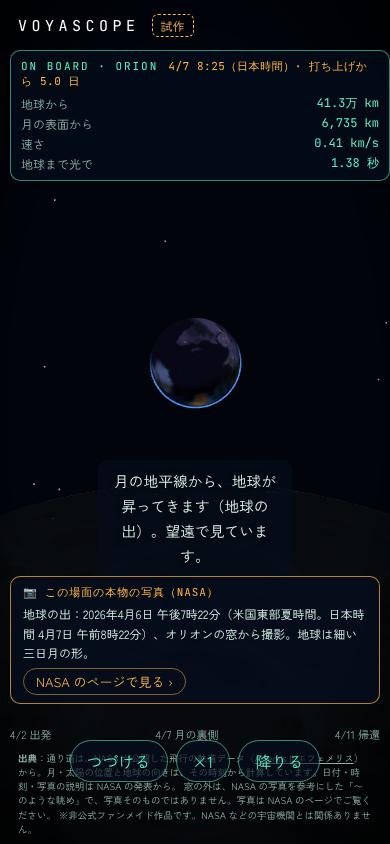
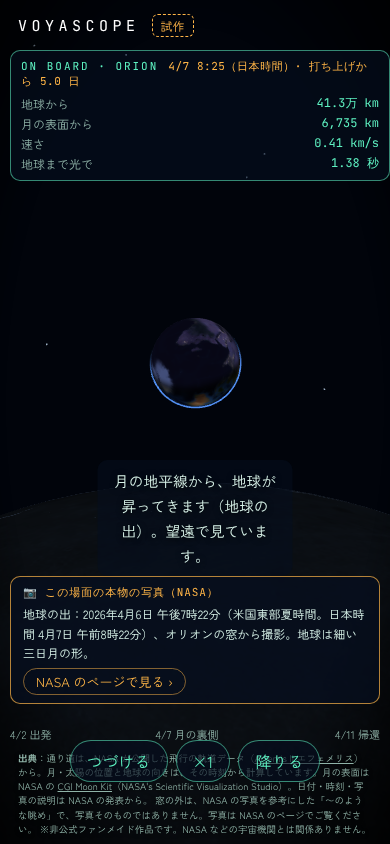
アルテミス2号ツアーの月を、NASA の CGI Moon Kit（本物の月の地図）にする
- 2026-10-09 オーナー「CGI Moon kit を使おう。本物を」
- 元：NASA SVS「CGI Moon Kit」https://svs.gsfc.nasa.gov/4720 （クレジット：NASA's Scientific Visualization Studio）
  - 色 lroc_color_2k.jpg → web/assets/moon/lroc-color-2048.webp（約265KB）
  - 標高 ldem_3_8bit.jpg → web/assets/moon/ldem-1024.webp（約66KB。でこぼこに使う）
  - WebP にしただけで、大きさ・色は変えていない
- コードで描いていた作りものの月は消した。ページの下にクレジットとリンク
- 読み込み量の上限：ツアーの組を 600KB → 950KB に上げた（いま 879KB）。理由：本物の月の画像（約331KB）と軌道データ。three.js と地球の画像は本体と共通でキャッシュが効く

Claude-Session: https://claude.ai/code/session_01PSGDyXvgTX9QfsVBqZKy2A

Changed region(s): [[0.0308, 0.8934, 0.9538, 1.0]]

diff --git a/web/tour/artemis2/tour.js b/web/tour/artemis2/tour.js
@@ -226,41 +226,11 @@ const atmo = new THREE.Mesh(
 );
 scene.add(atmo);
 
-// 月：表側に海（暗いところ）、裏側はクレーターの多い明るい高地（月の裏側に海が少ないのは本当の特徴）
-const moonTex = canvasTex(1024, 512, (g, w, h) => {
-  g.fillStyle = "#9a9790";
-  g.fillRect(0, 0, w, h);
-  const rnd = (a, b) => a + Math.random() * (b - a);
-  for (let i = 0; i < 9000; i++) {
-    g.fillStyle = Math.random() < 0.5 ? "rgba(255,255,255,0.05)" : "rgba(0,0,0,0.06)";
-    g.fillRect(rnd(0, w), rnd(0, h), rnd(1, 6), rnd(1, 6));
-  }
-  // 海（表側：経度の真ん中＝ u 0.5 のまわり）
-  if ("filter" in g) g.filter = "blur(10px)";
-  for (let i = 0; i < 26; i++) {
-    g.fillStyle = `rgba(52,52,56,${rnd(0.25, 0.45)})`;
-    g.beginPath();
-    g.ellipse(w * rnd(0.36, 0.64), h * rnd(0.28, 0.66), rnd(25, 95), rnd(18, 70), rnd(0, 3), 0, Math.PI * 2);
-    g.fill();
-  }
-  if ("filter" in g) g.filter = "none";
-  // クレーター（裏側に多め）
-  for (let i = 0; i < 1400; i++) {
-    let u = Math.random();
-    if (u > 0.33 && u < 0.67 && Math.random() < 0.55) u = (u + 0.5) % 1;
-    const x = u * w, y = rnd(0.06, 0.94) * h, r = Math.random() < 0.04 ? rnd(10, 26) : rnd(1.2, 7);
-    g.fillStyle = "rgba(0,0,0,0.18)";
-    g.beginPath();
-    g.arc(x, y, r, 0, Math.PI * 2);
-    g.fill();
-    g.strokeStyle = "rgba(255,255,255,0.22)";
-    g.lineWidth = Math.max(0.6, r * 0.18);
-    g.beginPath();
-    g.arc(x - r * 0.12, y - r * 0.12, r, 0, Math.PI * 2);
-    g.stroke();
-  }
-});
-const moon = new THREE.Mesh(new THREE.SphereGeometry(R_M, 96, 64), new THREE.MeshStandardMaterial({ map: moonTex, bumpMap: moonTex, bumpScale: 0.03, roughness: 1, metalness: 0 }));
+// 月：NASA SVS の CGI Moon Kit（LRO の写真をつないだ色の地図と、レーザー高度計の標高の地図）。経度0°（地球の側）が真ん中
+// https://svs.gsfc.nasa.gov/4720 （クレジット：NASA's Scientific Visualization Studio）。web/assets/moon/ に WebP にして置いた
+const moonTex = loadTex("../../assets/moon/lroc-color-2048.webp");
+const moonBump = loadTex("../../assets/moon/ldem-1024.webp");
+const moon = new THREE.Mesh(new THREE.SphereGeometry(R_M, 96, 64), new THREE.MeshStandardMaterial({ map: moonTex, bumpMap: moonBump, bumpScale: 0.02, roughness: 1, metalness: 0 }));
 scene.add(moon);
 
 // 太陽と、月に隠れたときに月のふちで光る輪（コロナのような光）

diff --git a/web/tour/artemis2/index.html b/web/tour/artemis2/index.html
@@ -77,7 +77,7 @@
   </section>
 
   <p class="note">
-    <b>出典</b>：通り道は、NASA が公開した飛行の軌道データ（<a href="https://www.nasa.gov/missions/artemis/artemis-2/track-nasas-artemis-ii-mission-in-real-time/" target="_blank" rel="noopener">Artemis II エフェメリス</a>）から。月・太陽の位置と地球の向きは、その時刻から計算しています。日付・時刻・写真の説明は NASA の発表から。
+    <b>出典</b>：通り道は、NASA が公開した飛行の軌道データ（<a href="https://www.nasa.gov/missions/artemis/artemis-2/track-nasas-artemis-ii-mission-in-real-time/" target="_blank" rel="noopener">Artemis II エフェメリス</a>）から。月・太陽の位置と地球の向きは、その時刻から計算しています。月の表面は NASA の <a href="https://svs.gsfc.nasa.gov/4720" target="_blank" rel="noopener">CGI Moon Kit</a>（NASA's Scientific Visualization Studio）。日付・時刻・写真の説明は NASA の発表から。
     窓の外は、NASA の写真を参考にした「〜のような眺め」で、写真そのものではありません。写真は NASA のページでご覧ください。
     ※非公式ファンメイド作品です。NASA などの宇宙機関とは関係ありません。
   </p>
